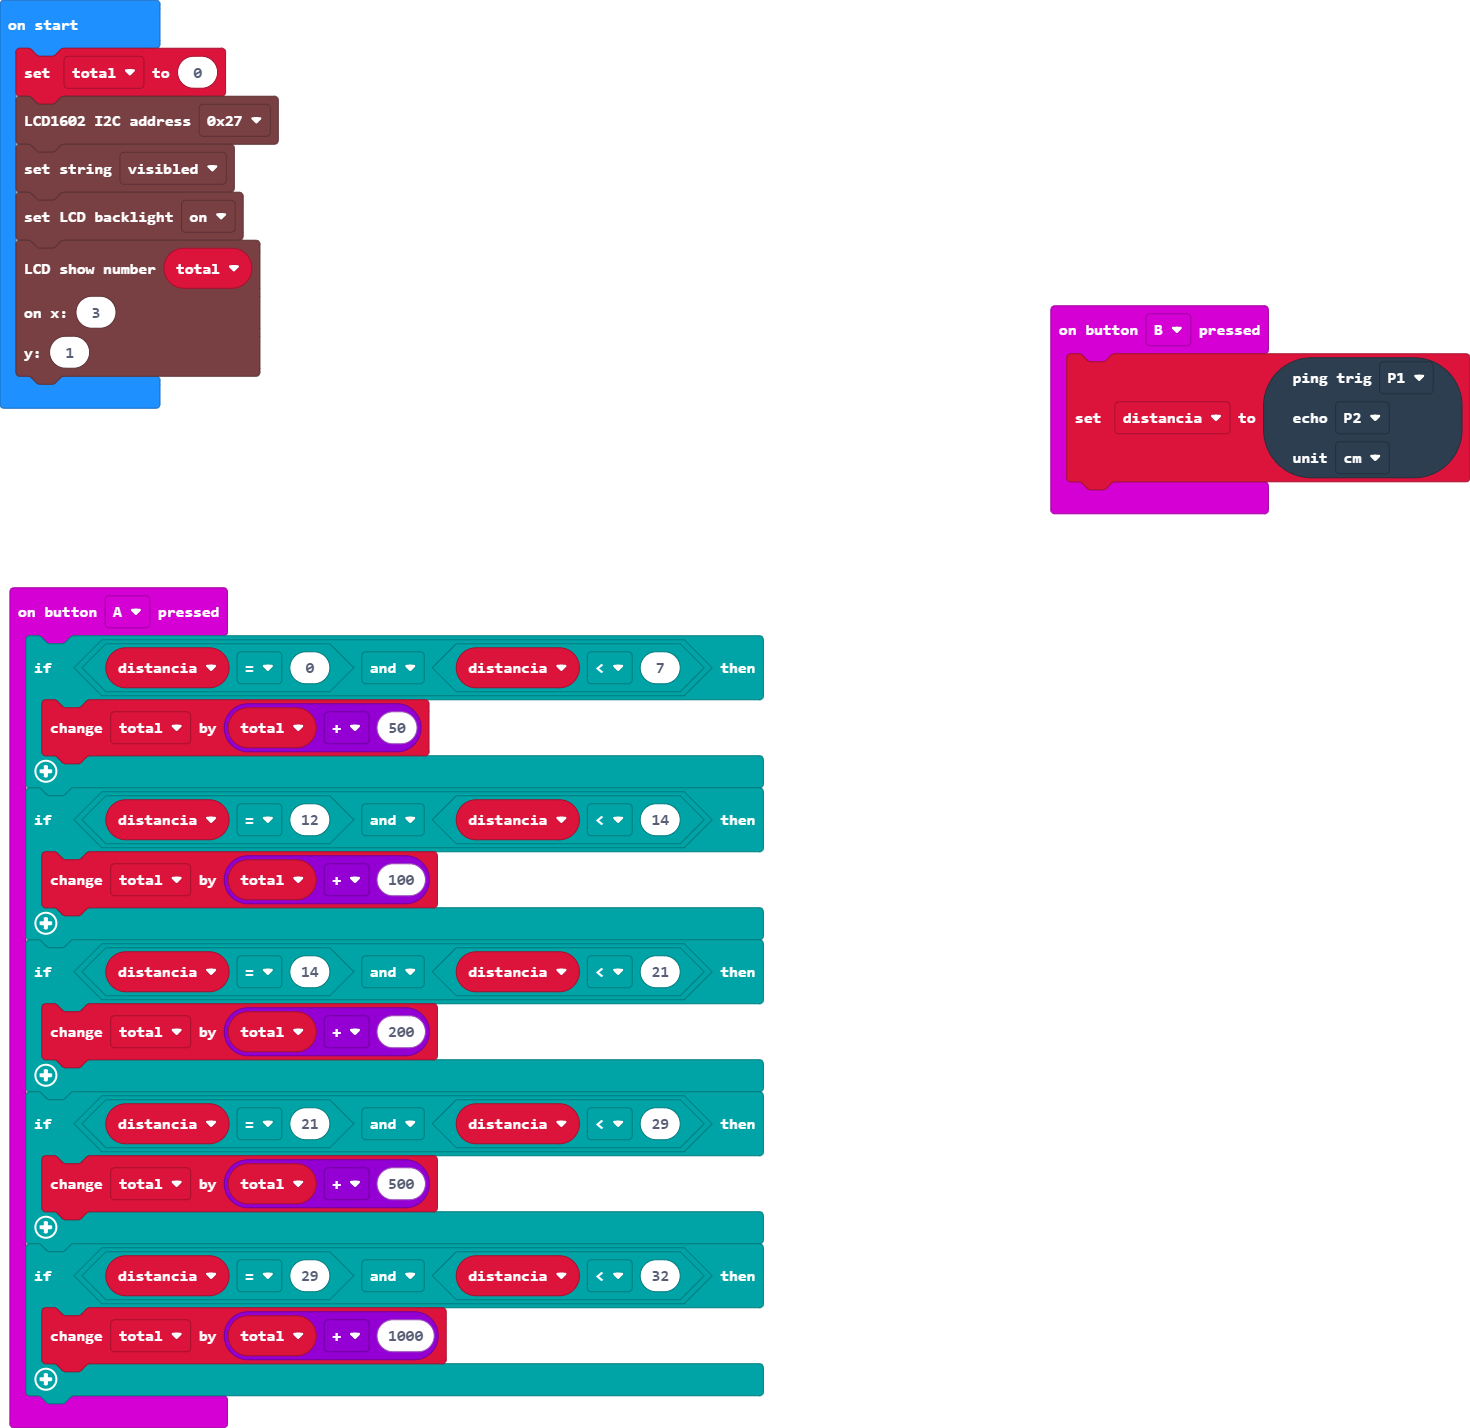
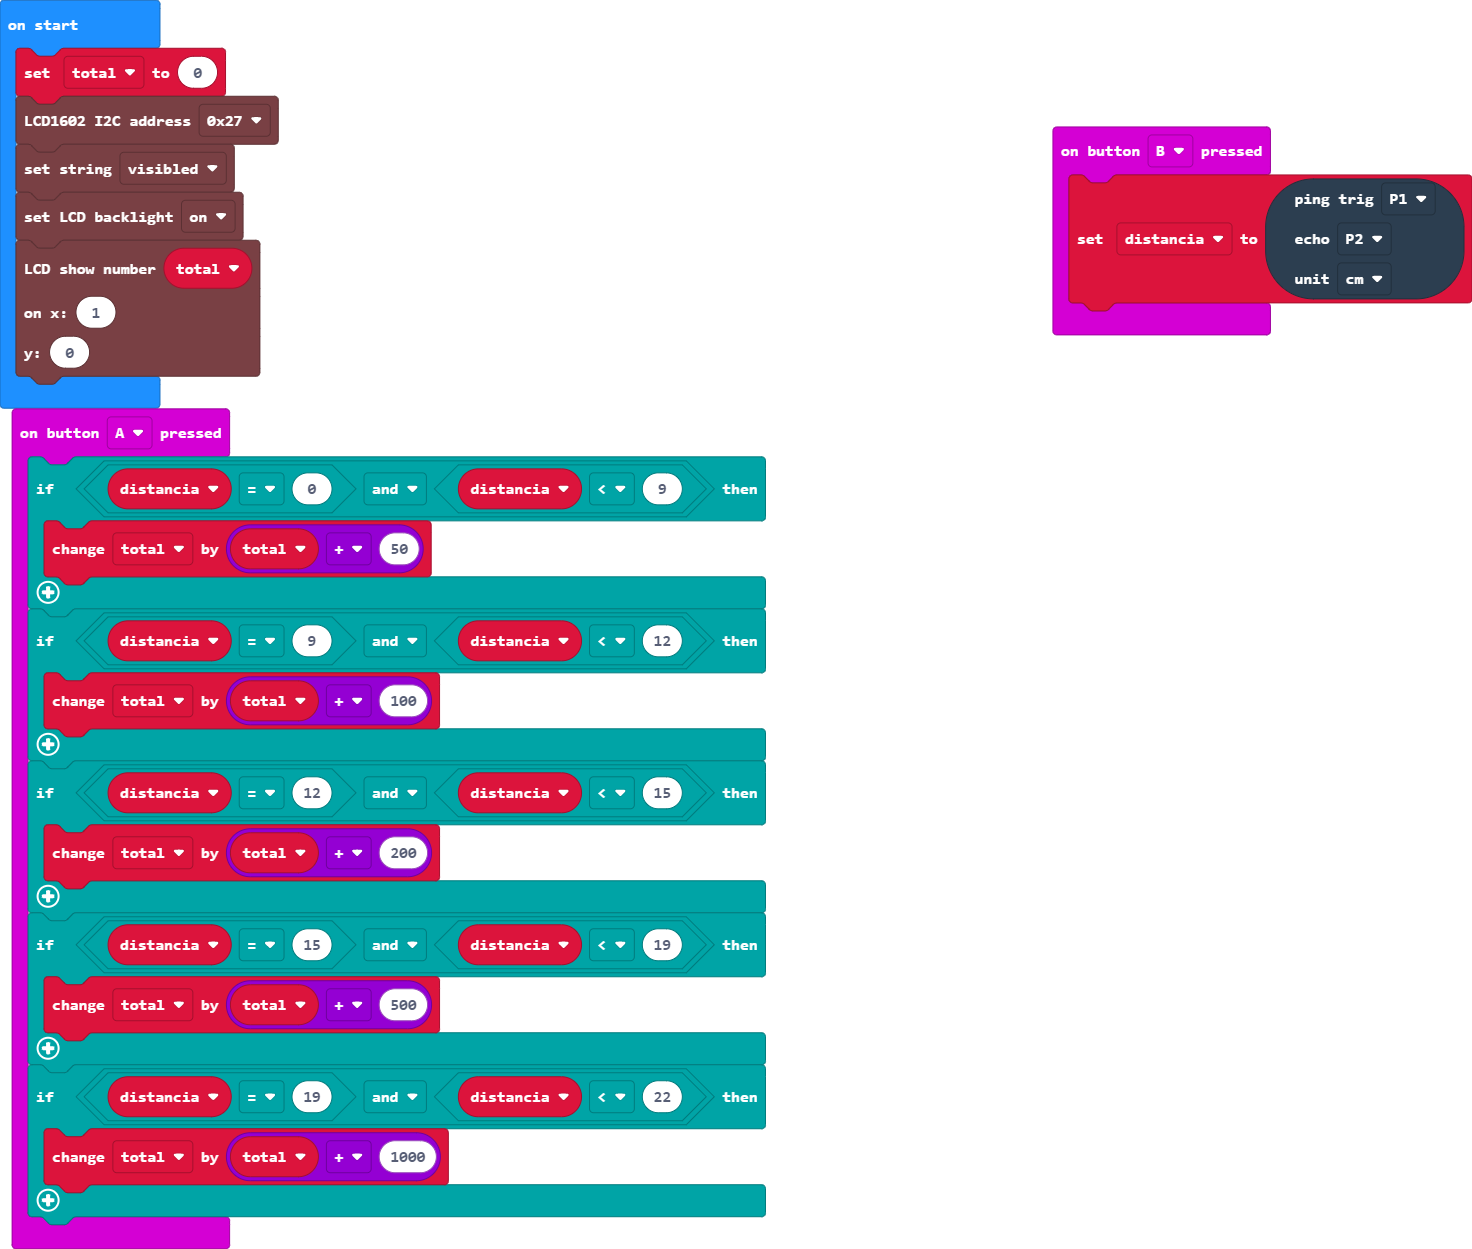
Update main.blocks, main.ts

diff --git a/main.ts b/main.ts
@@ -1,17 +1,17 @@
 input.onButtonPressed(Button.A, function () {
-    if (distancia == 0 && distancia < 7) {
+    if (distancia == 0 && distancia < 9) {
         total += total + 50
     }
-    if (distancia == 12 && distancia < 14) {
+    if (distancia == 9 && distancia < 12) {
         total += total + 100
     }
-    if (distancia == 14 && distancia < 21) {
+    if (distancia == 12 && distancia < 15) {
         total += total + 200
     }
-    if (distancia == 21 && distancia < 29) {
+    if (distancia == 15 && distancia < 19) {
         total += total + 500
     }
-    if (distancia == 29 && distancia < 32) {
+    if (distancia == 19 && distancia < 22) {
         total += total + 1000
     }
 })
@@ -32,6 +32,6 @@ lcd1602.set_LCD_Show(lcd1602.visibled.visible)
 lcd1602.set_backlight(lcd1602.on_off.on)
 lcd1602.putNumber(
 total,
-3,
-1
+1,
+0
 )
